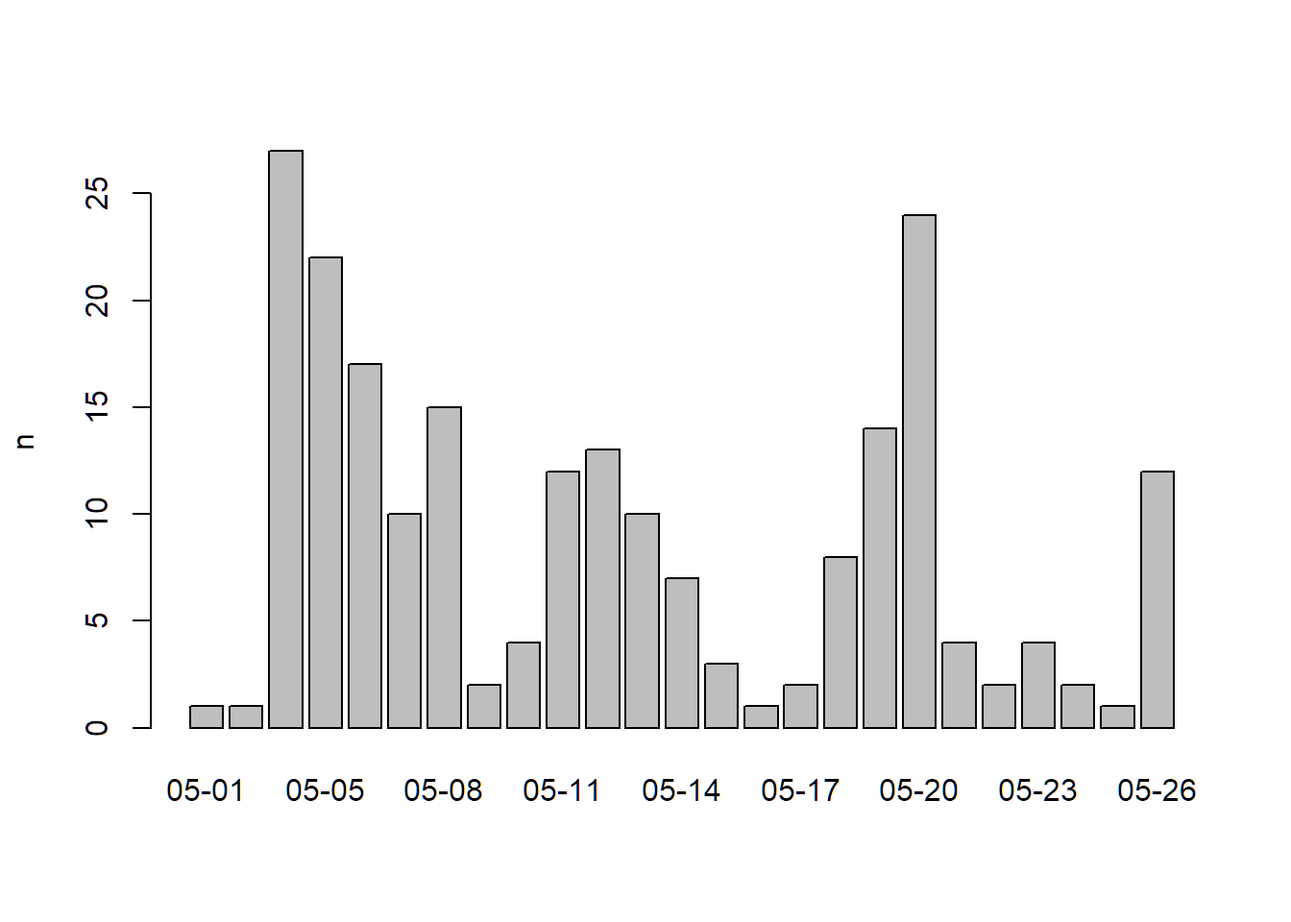
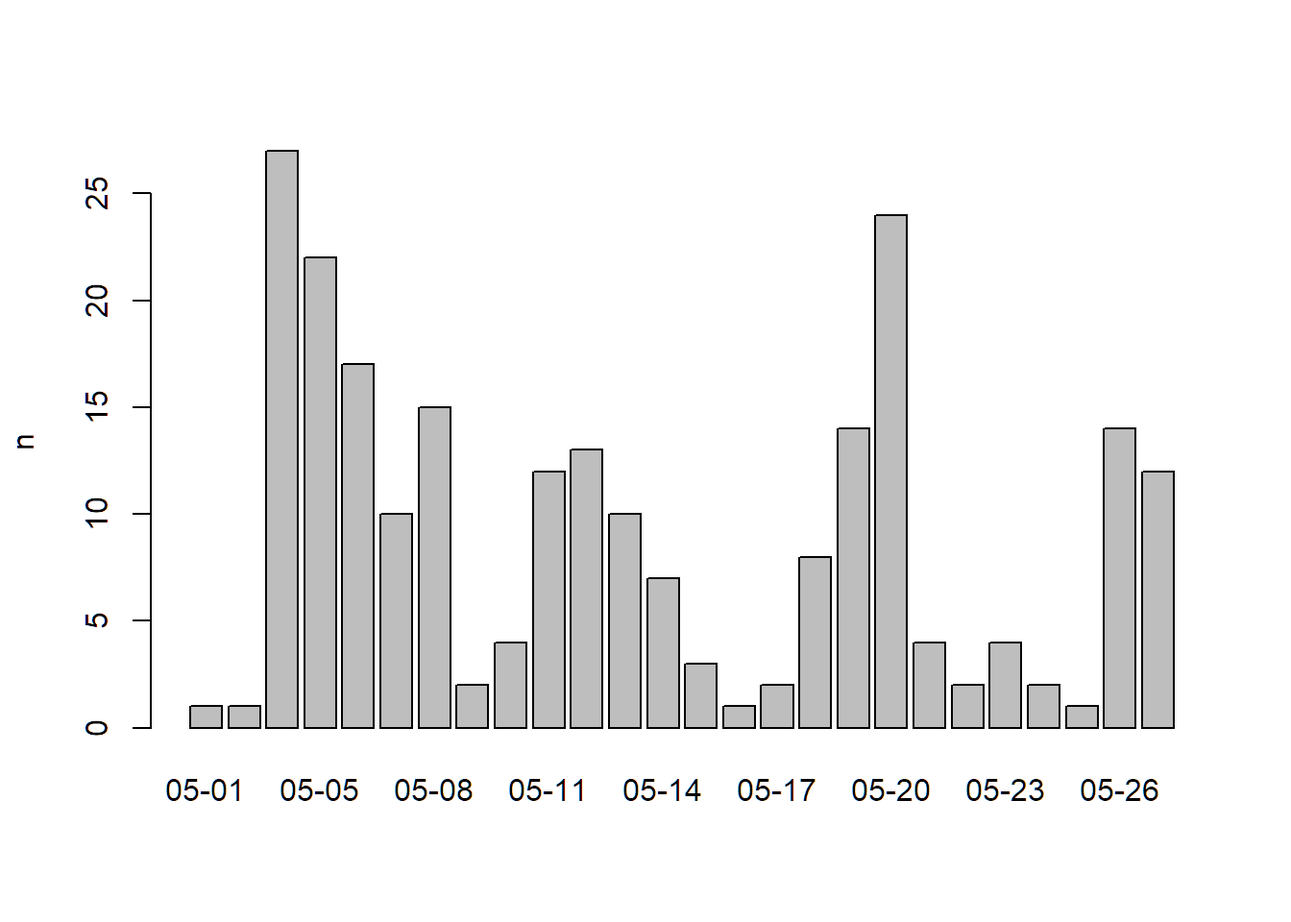
Reg summary update

diff --git a/docs/reg_summary.html b/docs/reg_summary.html
@@ -268,7 +268,7 @@ div.tocify {
 
 
 <h1 class="title toc-ignore">DroneCamp 2020 Registrations</h1>
-<h4 class="date">as of Tuesday May 26, 20:19</h4>
+<h4 class="date">as of Wednesday May 27, 15:06</h4>
 
 </div>
 
@@ -299,15 +299,15 @@ h4 {
 <h1>Summary</h1>
 <p><p class="total">
 Total: 
-218
+232
 </p><p>
 <em>estimate based on unique email addresses</em>
 </p></p>
 </div>
 <div id="map" class="section level1">
 <h1>Map</h1>
-<div id="htmlwidget-bb96046818318e6d7fb2" style="width:672px;height:480px;" class="leaflet html-widget"></div>
-<script type="application/json" data-for="htmlwidget-bb96046818318e6d7fb2">{"x":{"options":{"crs":{"crsClass":"L.CRS.EPSG3857","code":null,"proj4def":null,"projectedBounds":null,"options":{}}},"calls":[{"method":"addTiles","args":["//{s}.tile.openstreetmap.org/{z}/{x}/{y}.png",null,null,{"minZoom":0,"maxZoom":18,"tileSize":256,"subdomains":"abc","errorTileUrl":"","tms":false,"noWrap":false,"zoomOffset":0,"zoomReverse":false,"opacity":1,"zIndex":1,"detectRetina":false,"attribution":"&copy; <a href=\"http://openstreetmap.org\">OpenStreetMap<\/a> contributors, <a href=\"http://creativecommons.org/licenses/by-sa/2.0/\">CC-BY-SA<\/a>"}]},{"method":"addCircleMarkers","args":[[37.4635519,36.678155,44.6111643,44.60509,38.5449065,32.7764749,36.825582,34.048411,38.5449065,36.9741171,38.556576,40.8020712,35.5005139,36.9707,38.5449065,37.7749295,40.659753,38.457611,37.523901,32.700018,36.6002378,34.117047,37.9829496,40.867469,36.681161,34.4208305,38.549256,41.081726,38.440111,32.704499,33.794028,40.039784,40.160138,39.5807452,52.9817372,49.2488091,43.6150186,39.072831,47.6248791,51.0447331,40.5852602,34.063209,37.5629917,36.678155,36.447533,35.5496939,40.5852602,34.0966764,36.6844029,49.2827291,34.268736,39.830936,36.722616,40.4233142,40.5852602,39.720955,36.9741171,36.6844029,43.0085587,37.3021632,40.867469,37.8715226,38.480494,33.640302,36.148444,49.2488091,38.672127,32.715738,39.7392358,38.3293416,38.3293416,38.3293416,40.0149856,40.4233142,36.812905,33.571185,34.0522342,32.715738,32.557684,38.939926,38.939926,47.899217,45.497856,41.971044,34.432896,36.3302284,36.358928,36.678155,39.9242266,38.7296252,43.828266,32.8328112,49.2710518,39.202725,34.110009,37.4529598,45.5051064,39.767536,49.1344187,39.114138,34.1175895,39.049377,39.049377,47.899217,32.800259,32.853471,40.399281,32.8111612,50.9341773,36.6844029,37.342056,33.016928,39.15973,39.720955,33.869114,33.016928,32.715738,36.678155,38.546306,39.7778,45.56544,45.482341,51.1097378,38.528103,38.528103,37.8715226,38.546306,26.067966,39.735745,36.691036,51.0869594,38.359772,36.865587,32.918035,40.399281,39.403178,37.010322,38.549256,36.680194,36.665879,37.8715226,37.232027,36.61365,38.549256,33.571185,36.619065,32.8328112,43.0730517,36.665879,43.165134,60.766603,37.057708,32.6926512,33.835465,38.480494,41.5264977,42.02933,49.1682866,43.06956,49.2609021,33.785166,38.628371,37.954122,49.2684344,40.963482,38.697238,39.957324,49.261045,34.406519,34.443746,44.6564909,44.6564909,44.6564909,36.9880503,44.6564909,36.9880503,44.6564909,44.6564909,44.6564909,44.6564909,44.6564909,39.645276,36.678155,38.5382322,39.395387,33.016928,34.4139629,38.5382322,40.044385,36.979333,38.5382322,38.580255,37.868575,37.870151,38.5449065,43.318318,43.074296,39.654181,39.654181,43.7022451,37.000199,37.342056,39.13255,30.0770172,27.455543,35.992691,37.186872,34.198738,37.342056,37.3021632,33.823316,36.825582,33.741651,45.589689],[-122.4285862,-121.79724,-69.3345032,-69.33022,-121.7405167,-79.9310512,-119.76358,-118.34015,-121.7405167,-122.0307963,-121.49285,-124.1636729,-119.2717761,-121.99086,-121.7405167,-122.4194155,-124.22153,-122.69317,-120.8516,-114.52671,-121.8946761,-117.77097,-120.3821724,-124.07519,-121.61538,-119.6981901,-121.73655,-124.13112,-122.74563,-114.64644,-118.07218,-105.27938,-105.01772,-104.8771726,-122.4949058,-122.9805104,-116.2023137,-108.55,-122.5210007,-114.0718831,-105.084423,-118.43643,-122.3255254,-121.79724,-121.68611,-120.7060049,-105.084423,-117.7197785,-121.802173,-123.1207375,-119.2249,-105.03736,-120.10081,-104.7091322,-105.084423,-121.81888,-122.0307963,-121.802173,-81.2634983,-120.4829677,-124.07519,-122.273042,-122.74976,-117.769442,-95.90841,-122.9805104,-121.15783,-117.1610838,-104.990251,-122.7096666,-122.7096666,-122.7096666,-105.2705456,-104.7091322,-121.78299,-117.15362,-118.2436849,-117.1610838,-94.74353,-119.9771868,-119.9771868,-97.05896,-122.76988,-87.75869,-119.837072,-119.2920585,-119.24027,-121.79724,-83.8088171,-120.798546,-84.74219,-117.2712717,-123.1588119,-121.02076,-117.71973,-122.1817252,-122.6750261,-105.01973,-123.1163498,-121.6196,-118.188329,-76.49892,-76.49892,-97.05896,-115.35369,-115.58942,-104.70172,-115.3802643,-114.106128,-121.802173,-120.50154,-116.846046,-121.53735,-121.81888,-117.92985,-116.846046,-117.1610838,-121.79724,-121.68682,-89.67982,-122.64635,-122.60007,-114.1517792,-76.98063,-76.98063,-122.273042,-121.68682,-80.22016,-105.19337,-119.83321,-114.1294249,-120.75324,-119.75917,-117.08438,-104.70172,-119.7606,-121.98523,-121.73655,-121.7822278,-121.65497,-122.273042,-80.42127,-119.52873,-121.73655,-117.15362,-121.92102,-117.2712717,-89.4012302,-121.65497,-76.33901,-161.88006,-122.05967,-114.6276916,-117.87362,-122.74976,-70.6730857,-93.60966,-122.9101347,-89.423861,-123.1341072,-117.93406,-121.32702,-122.02506,-123.2611098,-124.07286,-121.80944,-120.98366,-123.2487939,-118.56214,-119.94215,-63.6021832,-63.6021832,-63.6021832,-122.0582093,-63.6021832,-122.0582093,-63.6021832,-63.6021832,-63.6021832,-63.6021832,-63.6021832,-79.962669,-121.79724,-121.7617125,-119.72735,-116.846046,-119.848947,-121.7617125,-105.21928,-121.8944,-121.7617125,-121.49125,-122.25855,-122.2594606,-121.7405167,-89.74928,-89.40774,-79.9594886,-79.9594886,-72.2895526,-122.06026,-120.50154,-121.0981,31.285107,-82.63372,-84.27044,-120.650351,-86.59814,-120.50154,-120.4829677,-118.11329,-119.76358,-117.82127,-122.73875],10,null,null,{"interactive":true,"className":"","stroke":true,"color":"#03F","weight":5,"opacity":0.5,"fill":true,"fillColor":"#03F","fillOpacity":0.2},1,null,["CE Advisor (Urban Forestry)<br/>UCCE San Mateo/San Francisco","Human Resources<br/>MPC Student","Professor<br/>Unity College","Professor of Geoscience<br/>Unity College","Executive Director, Sustainable Wine & Food Processing Center<br/>University of California Davis","Graduate Student<br/>College of Charleston","Turfgrass and Environmental Horticulture Advisor<br/>University of California Cooperative Extension","Postdoctoral Scholar<br/>UCLA","Associate Director River Restoration<br/>American Rivers","Senior Restoration Ecologist<br/>River Partners","Graduate Student<br/>UC Davis","Associate Environmental Planner<br/>Caltrans","Consultant/Remote Sensing Engineer<br/>Wonderful","Masters Candidate<br/>University of California Santa Cruz","Postdoc<br/>UC Davis","GIS Manager/Drone Pilot<br/>SFEI","Assistant Professor<br/>College of the Redwoods","Sr. GIS Analyst / Drone Ops<br/>Jackson Family Wines","Assistant Professor of Geography<br/>CSU, Stanislaus","Media Specialist and Drone Operator<br/>University of Arizona Yuma Center of Excellence for Desert Agriculture","GIS Technician<br/>CSU Monterey Bay","Statewide Survey and Trapping Coordinator<br/>UC IPM","Professor<br/>Columbia College","Adjunct Lecturer<br/>Humboldt State University","Student Researcher<br/>California State University Monterey Bay","Master Student<br/>UCSB","Graduate PhD student<br/>University of California Davis","Student<br/>College of the redwoods","Department Chair<br/>Santa Rosa Junior College","Professor of Geosciences/UAS<br/>Arizona Western College","Environmental Scientist<br/>California Department of Fish and Wildlife, Office of Spill Prevention and Response","GIS Ana.yst<br/>AGS Inc.","Unemployed<br/>Unemployed","GIS Specialist<br/>ICON Engineering","Student / BC Ministry of Forests Auxiliary<br/>British Columbia Institute of Technology","Student<br/>British Columbia Institute of Technology","Assistant Professor, Human Environment Systems<br/>Boise State University","GIS Technician<br/>City of Grand Junction","Sr Wildlife Biologist/Project Manager<br/>ManTech International","Geographer<br/>none","Owner<br/>Private Business","Undergraduate<br/>University of California, Berkeley","Student<br/>College of San Mateo","Graduate student<br/>UC Santa Cruz","Director, Hastings Reserve<br/>UC Berkeley","Program Manager<br/>Upper Salinas Las Tablas Resource Conservation District","Environmental Scientist<br/>Twin Fish Enterprises LLC","Student<br/>Claremont Graduate University","Graduate Student<br/>California State University Monterey Bay","Student<br/>BCIT","Lab/Field Assistant<br/>UCCE Ventura County","Sr Geographic Analyst<br/>HERE Technologies","Field Agronomist<br/>Bayer","Professor & Chair<br/>University of Northern Colorado","Student Researcher<br/>Colorado State University","Instructor<br/>Butte College","Master Student<br/>University of California Santa Cruz","IST II<br/>CSU. Monterey Bay","Teaching assistant<br/>Western University","Student<br/>UC Merced","It<br/>Humboldt State U","Field Research Safety CoE/Health & Safety Advisor<br/>UC Berkeley","Dairy Advisor<br/>University of California Cooperative Extension","Principal IT Auditor<br/>UC Irvine","Graduate student<br/>University of Tulsa","GIS Student<br/>BCIT","Postdoc<br/>UCDavis","Videographer<br/>SDSC","Student<br/>University of Denver","Scientific Programs Manager<br/>Marin/Sonoma Mosquito and Vector Control District","Environmental Biologist<br/>Marin/Sonoma Mosquito and Vector Control District","Assistant Manager<br/>Marin/Sonoma Mosquito and Vector Control District","Field Engineer<br/>UNAVCO","Emeritus Professor<br/>University of Northern Colorado","Digital Media Assistant<br/>Elkhorn Slough Foundation","Community Edication Specialist<br/>UCCE","Graduate Student<br/>California State University, Los Angeles","Teaching Assistant<br/>UCSD","Student<br/>Letourneau University","Adjunct Instructor<br/>LTCC","Citizen Science Program Coordinator<br/>League to Save Lake Tahoe","Owner<br/>UAS for Good LLC","Instructor<br/>Portland Community College","Instructor<br/>Harper College","R & D Engineer<br/>University of California Santa Barbara","Environmental Scientist<br/>CAL FIRE","Forerstry Assistant II<br/>CAL FIRE","Student<br/>CSU Monterey Bay","Associate Professor/Geospatial Technology Coordinator<br/>Clark State Community College","GIS Manager<br/>County of El Dorado","Instructor<br/>Mid Michigan College","R&D Engineer<br/>UC San Diego/Scripps Oceanography","Biologist<br/>Hemmera","Middle School Science Teacher<br/>Nevada City School of the Arts","Digital Scholarship Librarian<br/>Claremont Colleges","Postdoctoral scholar<br/>UC Berkeley","student<br/>PSU","Retired<br/>None","Student in GIS<br/>BCIT (British Columbia Student of Technology)","Advisor<br/>UCCE Sutter-Yuba","GIS Analyst / Geophysicist / Geologist<br/>Rio Hondo College","Instructional Specialist<br/>Anne Arundel Community College","Professor<br/>Anne Arundel Community College","Assistant Professor of Aviation<br/>University of North Dakota","CENTER SUPERINTENDENT<br/>University of California  DREC","SRA<br/>University of California  DREC","Assistant Professor<br/>University of Northern Colorado","lab assistant<br/>UC Cooperative Extension  in Imperial","Student<br/>University of Calgary","Student<br/>CSUMB","Coordinator and Professor of Computer Science<br/>Merced College","Ph.D. student<br/>UC San Diego","Farm hand<br/>CSU Chico, student","Environmental Land Steward II<br/>Chico State Enterprise","President<br/>Roof Rx Inc","PhD student<br/>UCSD","PhD Student<br/>University of California, San Diego","Professor and Farm Incubator<br/>CSUMB","Program and Event Specialist<br/>UC ANR","Student<br/>University of Kentucky","STEAM coordinator<br/>Portland Community College","STEAM Coordinator<br/>Portland. Community College","student<br/>Univeristy of Calgary","Program Assistant - Transportation<br/>College of Southern Marland","Director I, Transportation Dept<br/>College of Southern Maryland","Graduate Student<br/>University of California, Berkeley","Sr. Systems Administrator<br/>University of California - Agriculture and Natural Resources","Geomatics Specialist<br/>UF","Multimedia Section Lead<br/>NREL","Research Associate<br/>Bayer Crop Science","Student<br/>University of Calgary","Farm Advisor<br/>UCCE Central Sierra","Asst. Specialist<br/>UC ANR","Student - Intern for Graduate Student Studying Habitat Restoration and GIS<br/>UC Davis","Associate Professor<br/>University of Northern Colorado","GIS Analyst<br/>Michael Baker International","student<br/>West Valley College","PhD student<br/>Uc Davis","Assistant Professor<br/>California State University Monterey Bay","IPM & Entomology Advisor<br/>University of California Cooperative Extension","Ph.D. Candidate<br/>University of California, Berkeley","Geospatial Ext. Specialist<br/>Virginia Tech","Assistant CE Specialist<br/>ANR","Graduate Student Researcher<br/>UC Davis","GIS Consultant<br/>GEOinovo Solutions Inc","Graduate Student Assistant<br/>CSUMB","Student<br/>University of California San Diego","Postdoctoral Fellow<br/>The University of Wisconsin","Senior Lecturer/Media Production Specialist<br/>Cinematic Arts & Technology, CSU Monterey Bay","Student<br/>Syracuse University","Biologist/pilot<br/>US Fish and Wildlife Service","Postdoctoral Researcher<br/>UC Santa Cruz","Postdoctoral Research Associate<br/>University of Arizona","Student<br/>Rio Hondo College","Staff Surveyor<br/>Cinquini & Passarino Inc.","Research Scientist<br/>Marine Biological Laboratory","Graduate Research Assistant<br/>Iowa State University","Stuent<br/>British Columbia Institute of Technology","Undergraduate Researcher<br/>University of Wisconsin - Madison","Grad student<br/>UBC","Director, Drone Education Programs<br/>Vital Link OC","Professor, Department of Mechanical Engineering; Senior Bridge Engineer, Caltrans<br/>CSU Maritime Academy/Caltrans","IT Project Manager<br/>CSU Monterey Bay","PhD Student<br/>University of British Columbia","Biologist<br/>Caltrans","Project Designer<br/>Continental Development Consultants","Land Steward- Conservation Easement Coordinator<br/>Feather River Land Trust","PhD student<br/>The University of British Columbia","Commercial Estimator<br/>Rio Hondo College","PhD student, laboratory manager<br/>UCSB","Assistant Professor<br/>Dalhousie University","MSc student<br/>Dalhousie University","MSc student<br/>Dalhousie University","Researcher<br/>UC Santa Cruz","MSc student<br/>Dalhousie University","Summer Intern (Doris Duke Scholar)<br/>UC Santa Cruz","MSc student<br/>Dalhousie University","MSc student<br/>Dalhousie University","PhD student<br/>Dalhousie University","MSc student<br/>Dalhousie University","MSc student<br/>Dalhousie University","Assistant Professor<br/>West Virginia University","Field Technician<br/>CSUMB","PhD Candidate<br/>UC Davis","GIS Analyst<br/>NV Energy","PhD Student<br/>University of California, San Diego","Reserve Director, Carpinteria Salt Marsh Resereve<br/>University of California, Santa Barbara/UC NRS","scientist<br/>UC Davis","Field Engineer<br/>UNAVCO","Student<br/>CSUMB","Geospatial Specialist (JS)<br/>UC Davis","Civil Engineer<br/>CA DWR","PhD Student<br/>UC Berkeley","PhD Candidate<br/>UC Berkeley","Student<br/>University of California Davis","Ecologist<br/>US Dairy Forage Research Center","Biological Research Technician<br/>US Dairy Forage Research Center","Graduate Student<br/>West Virginia University","Graduate Student<br/>West Virginia University","Dartmouth College<br/>Dartmouth College","PhD Student<br/>University of California Santa Cruz","N/A<br/>UC Merced","Archaeology<br/>California State Parks","Urban Planner<br/>Ain Shams University","Utilities Mapping Technician II<br/>Manatee County Government","AVIATION MANAGER<br/>DOE-CSC-OAK RIDGE","Professor<br/>University of California Merced","Department Chair, CIS<br/>Wallace State Community College - Hanceville, AL","ME143 TA<br/>UC Merced","ME143 TA<br/>UC Merced","GIS Specialist<br/>Project Navigator","Senior Environmental Scientist<br/>CA Department of Fish and Wildlife","Design<br/>Project Navigator, Ltd.","Dean<br/>Portland Community College"],null,null,{"interactive":false,"permanent":false,"direction":"auto","opacity":1,"offset":[0,0],"textsize":"10px","textOnly":false,"className":"","sticky":true},null]}],"limits":{"lat":[26.067966,60.766603],"lng":[-161.88006,31.285107]}},"evals":[],"jsHooks":[]}</script>
+<div id="htmlwidget-e0c33915977459791e86" style="width:672px;height:480px;" class="leaflet html-widget"></div>
+<script type="application/json" data-for="htmlwidget-e0c33915977459791e86">{"x":{"options":{"crs":{"crsClass":"L.CRS.EPSG3857","code":null,"proj4def":null,"projectedBounds":null,"options":{}}},"calls":[{"method":"addTiles","args":["//{s}.tile.openstreetmap.org/{z}/{x}/{y}.png",null,null,{"minZoom":0,"maxZoom":18,"tileSize":256,"subdomains":"abc","errorTileUrl":"","tms":false,"noWrap":false,"zoomOffset":0,"zoomReverse":false,"opacity":1,"zIndex":1,"detectRetina":false,"attribution":"&copy; <a href=\"http://openstreetmap.org\">OpenStreetMap<\/a> contributors, <a href=\"http://creativecommons.org/licenses/by-sa/2.0/\">CC-BY-SA<\/a>"}]},{"method":"addCircleMarkers","args":[[37.4635519,36.678155,44.6111643,44.60509,38.5449065,32.7764749,36.825582,34.048411,38.5449065,36.9741171,38.556576,40.8020712,35.5005139,36.9707,38.5449065,37.7749295,40.659753,38.457611,37.523901,32.700018,36.6002378,34.117047,37.9829496,40.867469,36.681161,34.4208305,38.549256,41.081726,38.440111,32.704499,33.794028,40.039784,40.160138,39.5807452,52.9817372,49.2488091,43.6150186,39.072831,47.6248791,51.0447331,40.5852602,34.063209,37.5629917,36.678155,36.447533,35.5496939,40.5852602,34.0966764,36.6844029,49.2827291,34.268736,39.830936,36.722616,40.4233142,40.5852602,39.720955,36.9741171,36.6844029,43.0085587,37.3021632,40.867469,37.8715226,38.480494,33.640302,36.148444,49.2488091,38.672127,32.715738,39.7392358,38.3293416,38.3293416,38.3293416,40.0149856,40.4233142,36.812905,33.571185,34.0522342,32.715738,32.557684,38.939926,38.939926,47.899217,45.497856,41.971044,34.432896,36.3302284,36.358928,36.678155,39.9242266,38.7296252,43.828266,32.8328112,49.2710518,39.202725,34.110009,37.4529598,45.5051064,39.767536,49.1344187,39.114138,34.1175895,39.049377,39.049377,47.899217,32.800259,32.853471,40.399281,32.8111612,50.9341773,36.6844029,37.342056,33.016928,39.15973,39.720955,33.869114,33.016928,32.715738,36.678155,38.546306,39.7778,45.56544,45.482341,51.1097378,38.528103,38.528103,37.8715226,38.546306,26.067966,39.735745,36.691036,51.0869594,38.359772,36.865587,32.918035,40.399281,39.403178,37.010322,38.549256,36.680194,36.665879,37.8715226,37.232027,36.61365,38.549256,33.571185,36.619065,32.8328112,43.0730517,36.665879,43.165134,60.766603,37.057708,32.6926512,33.835465,38.480494,41.5264977,42.02933,49.1682866,43.06956,49.2609021,33.785166,38.628371,37.954122,49.2684344,40.963482,38.697238,39.957324,49.261045,34.406519,34.443746,44.6564909,44.6564909,44.6564909,36.9880503,44.6564909,36.9880503,44.6564909,44.6564909,44.6564909,44.6564909,44.6564909,39.645276,36.678155,38.5382322,39.395387,33.016928,34.4139629,38.5382322,40.044385,36.979333,38.5382322,38.580255,37.868575,37.870151,38.5449065,43.318318,43.074296,39.654181,39.654181,43.7022451,37.000199,37.342056,39.13255,30.0770172,27.455543,35.992691,37.186872,34.198738,37.342056,37.3021632,33.823316,36.825582,33.741651,45.589689,37.865026,45.589689,38.571661,38.07735,34.066626,37.186872,37.186872,37.186872,37.186872,37.186872,37.186872,37.186872,37.186872],[-122.4285862,-121.79724,-69.3345032,-69.33022,-121.7405167,-79.9310512,-119.76358,-118.34015,-121.7405167,-122.0307963,-121.49285,-124.1636729,-119.2717761,-121.99086,-121.7405167,-122.4194155,-124.22153,-122.69317,-120.8516,-114.52671,-121.8946761,-117.77097,-120.3821724,-124.07519,-121.61538,-119.6981901,-121.73655,-124.13112,-122.74563,-114.64644,-118.07218,-105.27938,-105.01772,-104.8771726,-122.4949058,-122.9805104,-116.2023137,-108.55,-122.5210007,-114.0718831,-105.084423,-118.43643,-122.3255254,-121.79724,-121.68611,-120.7060049,-105.084423,-117.7197785,-121.802173,-123.1207375,-119.2249,-105.03736,-120.10081,-104.7091322,-105.084423,-121.81888,-122.0307963,-121.802173,-81.2634983,-120.4829677,-124.07519,-122.273042,-122.74976,-117.769442,-95.90841,-122.9805104,-121.15783,-117.1610838,-104.990251,-122.7096666,-122.7096666,-122.7096666,-105.2705456,-104.7091322,-121.78299,-117.15362,-118.2436849,-117.1610838,-94.74353,-119.9771868,-119.9771868,-97.05896,-122.76988,-87.75869,-119.837072,-119.2920585,-119.24027,-121.79724,-83.8088171,-120.798546,-84.74219,-117.2712717,-123.1588119,-121.02076,-117.71973,-122.1817252,-122.6750261,-105.01973,-123.1163498,-121.6196,-118.188329,-76.49892,-76.49892,-97.05896,-115.35369,-115.58942,-104.70172,-115.3802643,-114.106128,-121.802173,-120.50154,-116.846046,-121.53735,-121.81888,-117.92985,-116.846046,-117.1610838,-121.79724,-121.68682,-89.67982,-122.64635,-122.60007,-114.1517792,-76.98063,-76.98063,-122.273042,-121.68682,-80.22016,-105.19337,-119.83321,-114.1294249,-120.75324,-119.75917,-117.08438,-104.70172,-119.7606,-121.98523,-121.73655,-121.7822278,-121.65497,-122.273042,-80.42127,-119.52873,-121.73655,-117.15362,-121.92102,-117.2712717,-89.4012302,-121.65497,-76.33901,-161.88006,-122.05967,-114.6276916,-117.87362,-122.74976,-70.6730857,-93.60966,-122.9101347,-89.423861,-123.1341072,-117.93406,-121.32702,-122.02506,-123.2611098,-124.07286,-121.80944,-120.98366,-123.2487939,-118.56214,-119.94215,-63.6021832,-63.6021832,-63.6021832,-122.0582093,-63.6021832,-122.0582093,-63.6021832,-63.6021832,-63.6021832,-63.6021832,-63.6021832,-79.962669,-121.79724,-121.7617125,-119.72735,-116.846046,-119.848947,-121.7617125,-105.21928,-121.8944,-121.7617125,-121.49125,-122.25855,-122.2594606,-121.7405167,-89.74928,-89.40774,-79.9594886,-79.9594886,-72.2895526,-122.06026,-120.50154,-121.0981,31.285107,-82.63372,-84.27044,-120.650351,-86.59814,-120.50154,-120.4829677,-118.11329,-119.76358,-117.82127,-122.73875,-122.2859,-122.73875,-121.46827,-78.42042,-116.55951,-120.650351,-120.650351,-120.650351,-120.650351,-120.650351,-120.650351,-120.650351,-120.650351],10,null,null,{"interactive":true,"className":"","stroke":true,"color":"#03F","weight":5,"opacity":0.5,"fill":true,"fillColor":"#03F","fillOpacity":0.2},1,null,["CE Advisor (Urban Forestry)<br/>UCCE San Mateo/San Francisco","Human Resources<br/>MPC Student","Professor<br/>Unity College","Professor of Geoscience<br/>Unity College","Executive Director, Sustainable Wine & Food Processing Center<br/>University of California Davis","Graduate Student<br/>College of Charleston","Turfgrass and Environmental Horticulture Advisor<br/>University of California Cooperative Extension","Postdoctoral Scholar<br/>UCLA","Associate Director River Restoration<br/>American Rivers","Senior Restoration Ecologist<br/>River Partners","Graduate Student<br/>UC Davis","Associate Environmental Planner<br/>Caltrans","Consultant/Remote Sensing Engineer<br/>Wonderful","Masters Candidate<br/>University of California Santa Cruz","Postdoc<br/>UC Davis","GIS Manager/Drone Pilot<br/>SFEI","Assistant Professor<br/>College of the Redwoods","Sr. GIS Analyst / Drone Ops<br/>Jackson Family Wines","Assistant Professor of Geography<br/>CSU, Stanislaus","Media Specialist and Drone Operator<br/>University of Arizona Yuma Center of Excellence for Desert Agriculture","GIS Technician<br/>CSU Monterey Bay","Statewide Survey and Trapping Coordinator<br/>UC IPM","Professor<br/>Columbia College","Adjunct Lecturer<br/>Humboldt State University","Student Researcher<br/>California State University Monterey Bay","Master Student<br/>UCSB","Graduate PhD student<br/>University of California Davis","Student<br/>College of the redwoods","Department Chair<br/>Santa Rosa Junior College","Professor of Geosciences/UAS<br/>Arizona Western College","Environmental Scientist<br/>California Department of Fish and Wildlife, Office of Spill Prevention and Response","GIS Ana.yst<br/>AGS Inc.","Unemployed<br/>Unemployed","GIS Specialist<br/>ICON Engineering","Student / BC Ministry of Forests Auxiliary<br/>British Columbia Institute of Technology","Student<br/>British Columbia Institute of Technology","Assistant Professor, Human Environment Systems<br/>Boise State University","GIS Technician<br/>City of Grand Junction","Sr Wildlife Biologist/Project Manager<br/>ManTech International","Geographer<br/>none","Owner<br/>Private Business","Undergraduate<br/>University of California, Berkeley","Student<br/>College of San Mateo","Graduate student<br/>UC Santa Cruz","Director, Hastings Reserve<br/>UC Berkeley","Program Manager<br/>Upper Salinas Las Tablas Resource Conservation District","Environmental Scientist<br/>Twin Fish Enterprises LLC","Student<br/>Claremont Graduate University","Graduate Student<br/>California State University Monterey Bay","Student<br/>BCIT","Lab/Field Assistant<br/>UCCE Ventura County","Sr Geographic Analyst<br/>HERE Technologies","Field Agronomist<br/>Bayer","Professor & Chair<br/>University of Northern Colorado","Student Researcher<br/>Colorado State University","Instructor<br/>Butte College","Master Student<br/>University of California Santa Cruz","IST II<br/>CSU. Monterey Bay","Teaching assistant<br/>Western University","Student<br/>UC Merced","It<br/>Humboldt State U","Field Research Safety CoE/Health & Safety Advisor<br/>UC Berkeley","Dairy Advisor<br/>University of California Cooperative Extension","Principal IT Auditor<br/>UC Irvine","Graduate student<br/>University of Tulsa","GIS Student<br/>BCIT","Postdoc<br/>UCDavis","Videographer<br/>SDSC","Student<br/>University of Denver","Scientific Programs Manager<br/>Marin/Sonoma Mosquito and Vector Control District","Environmental Biologist<br/>Marin/Sonoma Mosquito and Vector Control District","Assistant Manager<br/>Marin/Sonoma Mosquito and Vector Control District","Field Engineer<br/>UNAVCO","Emeritus Professor<br/>University of Northern Colorado","Digital Media Assistant<br/>Elkhorn Slough Foundation","Community Edication Specialist<br/>UCCE","Graduate Student<br/>California State University, Los Angeles","Teaching Assistant<br/>UCSD","Student<br/>Letourneau University","Adjunct Instructor<br/>LTCC","Citizen Science Program Coordinator<br/>League to Save Lake Tahoe","Owner<br/>UAS for Good LLC","Instructor<br/>Portland Community College","Instructor<br/>Harper College","R & D Engineer<br/>University of California Santa Barbara","Environmental Scientist<br/>CAL FIRE","Forerstry Assistant II<br/>CAL FIRE","Student<br/>CSU Monterey Bay","Associate Professor/Geospatial Technology Coordinator<br/>Clark State Community College","GIS Manager<br/>County of El Dorado","Instructor<br/>Mid Michigan College","R&D Engineer<br/>UC San Diego/Scripps Oceanography","Biologist<br/>Hemmera","Middle School Science Teacher<br/>Nevada City School of the Arts","Digital Scholarship Librarian<br/>Claremont Colleges","Postdoctoral scholar<br/>UC Berkeley","student<br/>PSU","Retired<br/>None","Student in GIS<br/>BCIT (British Columbia Student of Technology)","Advisor<br/>UCCE Sutter-Yuba","GIS Analyst / Geophysicist / Geologist<br/>Rio Hondo College","Instructional Specialist<br/>Anne Arundel Community College","Professor<br/>Anne Arundel Community College","Assistant Professor of Aviation<br/>University of North Dakota","CENTER SUPERINTENDENT<br/>University of California  DREC","SRA<br/>University of California  DREC","Assistant Professor<br/>University of Northern Colorado","lab assistant<br/>UC Cooperative Extension  in Imperial","Student<br/>University of Calgary","Student<br/>CSUMB","Coordinator and Professor of Computer Science<br/>Merced College","Ph.D. student<br/>UC San Diego","Farm hand<br/>CSU Chico, student","Environmental Land Steward II<br/>Chico State Enterprise","President<br/>Roof Rx Inc","PhD student<br/>UCSD","PhD Student<br/>University of California, San Diego","Professor and Farm Incubator<br/>CSUMB","Program and Event Specialist<br/>UC ANR","Student<br/>University of Kentucky","STEAM coordinator<br/>Portland Community College","STEAM Coordinator<br/>Portland. Community College","student<br/>Univeristy of Calgary","Program Assistant - Transportation<br/>College of Southern Marland","Director I, Transportation Dept<br/>College of Southern Maryland","Graduate Student<br/>University of California, Berkeley","Sr. Systems Administrator<br/>University of California - Agriculture and Natural Resources","Geomatics Specialist<br/>UF","Multimedia Section Lead<br/>NREL","Research Associate<br/>Bayer Crop Science","Student<br/>University of Calgary","Farm Advisor<br/>UCCE Central Sierra","Asst. Specialist<br/>UC ANR","Student - Intern for Graduate Student Studying Habitat Restoration and GIS<br/>UC Davis","Associate Professor<br/>University of Northern Colorado","GIS Analyst<br/>Michael Baker International","student<br/>West Valley College","PhD student<br/>Uc Davis","Assistant Professor<br/>California State University Monterey Bay","IPM & Entomology Advisor<br/>University of California Cooperative Extension","Ph.D. Candidate<br/>University of California, Berkeley","Geospatial Ext. Specialist<br/>Virginia Tech","Assistant CE Specialist<br/>ANR","Graduate Student Researcher<br/>UC Davis","GIS Consultant<br/>GEOinovo Solutions Inc","Graduate Student Assistant<br/>CSUMB","Student<br/>University of California San Diego","Postdoctoral Fellow<br/>The University of Wisconsin","Senior Lecturer/Media Production Specialist<br/>Cinematic Arts & Technology, CSU Monterey Bay","Student<br/>Syracuse University","Biologist/pilot<br/>US Fish and Wildlife Service","Postdoctoral Researcher<br/>UC Santa Cruz","Postdoctoral Research Associate<br/>University of Arizona","Student<br/>Rio Hondo College","Staff Surveyor<br/>Cinquini & Passarino Inc.","Research Scientist<br/>Marine Biological Laboratory","Graduate Research Assistant<br/>Iowa State University","Stuent<br/>British Columbia Institute of Technology","Undergraduate Researcher<br/>University of Wisconsin - Madison","Grad student<br/>UBC","Director, Drone Education Programs<br/>Vital Link OC","Professor, Department of Mechanical Engineering; Senior Bridge Engineer, Caltrans<br/>CSU Maritime Academy/Caltrans","IT Project Manager<br/>CSU Monterey Bay","PhD Student<br/>University of British Columbia","Biologist<br/>Caltrans","Project Designer<br/>Continental Development Consultants","Land Steward- Conservation Easement Coordinator<br/>Feather River Land Trust","PhD student<br/>The University of British Columbia","Commercial Estimator<br/>Rio Hondo College","PhD student, laboratory manager<br/>UCSB","Assistant Professor<br/>Dalhousie University","MSc student<br/>Dalhousie University","MSc student<br/>Dalhousie University","Researcher<br/>UC Santa Cruz","MSc student<br/>Dalhousie University","Summer Intern (Doris Duke Scholar)<br/>UC Santa Cruz","MSc student<br/>Dalhousie University","MSc student<br/>Dalhousie University","PhD student<br/>Dalhousie University","MSc student<br/>Dalhousie University","MSc student<br/>Dalhousie University","Assistant Professor<br/>West Virginia University","Field Technician<br/>CSUMB","PhD Candidate<br/>UC Davis","GIS Analyst<br/>NV Energy","PhD Student<br/>University of California, San Diego","Reserve Director, Carpinteria Salt Marsh Resereve<br/>University of California, Santa Barbara/UC NRS","scientist<br/>UC Davis","Field Engineer<br/>UNAVCO","Student<br/>CSUMB","Geospatial Specialist (JS)<br/>UC Davis","Civil Engineer<br/>CA DWR","PhD Student<br/>UC Berkeley","PhD Candidate<br/>UC Berkeley","Student<br/>University of California Davis","Ecologist<br/>US Dairy Forage Research Center","Biological Research Technician<br/>US Dairy Forage Research Center","Graduate Student<br/>West Virginia University","Graduate Student<br/>West Virginia University","Dartmouth College<br/>Dartmouth College","PhD Student<br/>University of California Santa Cruz","N/A<br/>UC Merced","Archaeology<br/>California State Parks","Urban Planner<br/>Ain Shams University","Utilities Mapping Technician II<br/>Manatee County Government","AVIATION MANAGER<br/>DOE-CSC-OAK RIDGE","Professor<br/>University of California Merced","Department Chair, CIS<br/>Wallace State Community College - Hanceville, AL","ME143 TA<br/>UC Merced","ME143 TA<br/>UC Merced","GIS Specialist<br/>Project Navigator","Senior Environmental Scientist<br/>CA Department of Fish and Wildlife","Design<br/>Project Navigator, Ltd.","Dean<br/>Portland Community College","Graduate Student<br/>University of California, Berkeley","Research Data Analyst<br/>UC Davis School of Veterinary Medicine","Adjunct Faculty Instructor<br/>American River College","Stewardship Technician<br/>The Nature Conservancy","ME-143 UAS class member<br/>University of California, Merced","ME 143 UAS class member<br/>University of California Merced & UCM AIAA","ME-143 UAS class member<br/>UC Merced","ME-143 UAS Class Member<br/>UC Merced","ME 143 UAS class member<br/>uc merced","ME-143 UAS class member<br/>University of California, Merced","ME-143 UAS class member<br/>UC Merced","ME 143 UAS class member<br/>UC Merced","Apple Technical Support Advisor<br/>ME 143 class member"],null,null,{"interactive":false,"permanent":false,"direction":"auto","opacity":1,"offset":[0,0],"textsize":"10px","textOnly":false,"className":"","sticky":true},null]}],"limits":{"lat":[26.067966,60.766603],"lng":[-161.88006,31.285107]}},"evals":[],"jsHooks":[]}</script>
 </div>
 <div id="by-top-level-domain" class="section level1">
 <h1>By Top Level Domain</h1>
@@ -331,10 +331,10 @@ percent
 edu
 </td>
 <td style="text-align:right;">
-135
+148
 </td>
 <td style="text-align:left;">
-61.9%
+63.8%
 </td>
 </tr>
 <tr>
@@ -345,7 +345,7 @@ com
 36
 </td>
 <td style="text-align:left;">
-16.5%
+15.5%
 </td>
 </tr>
 <tr>
@@ -356,7 +356,7 @@ ca
 18
 </td>
 <td style="text-align:left;">
-8.3%
+7.8%
 </td>
 </tr>
 <tr>
@@ -367,7 +367,7 @@ gov
 13
 </td>
 <td style="text-align:left;">
-6%
+5.6%
 </td>
 </tr>
 <tr>
@@ -375,10 +375,10 @@ gov
 org
 </td>
 <td style="text-align:right;">
-11
+12
 </td>
 <td style="text-align:left;">
-5%
+5.2%
 </td>
 </tr>
 <tr>
@@ -400,7 +400,7 @@ eg
 1
 </td>
 <td style="text-align:left;">
-0.5%
+0.4%
 </td>
 </tr>
 <tr>
@@ -411,7 +411,7 @@ GOV
 1
 </td>
 <td style="text-align:left;">
-0.5%
+0.4%
 </td>
 </tr>
 <tr>
@@ -422,7 +422,7 @@ us
 1
 </td>
 <td style="text-align:left;">
-0.5%
+0.4%
 </td>
 </tr>
 </tbody>
@@ -433,7 +433,7 @@ us
 <p>
 <em>
 Number of academic institutions = 
-61
+62
 </em>
 </p>
 <table class="table" style="width: auto !important; ">
@@ -458,10 +458,18 @@ n
 </tr>
 <tr>
 <td style="text-align:left;">
+<a href="http://ucmerced.edu" style="     ">ucmerced.edu</a>
+</td>
+<td style="text-align:right;">
+15
+</td>
+</tr>
+<tr>
+<td style="text-align:left;">
 <a href="http://ucdavis.edu" style="     ">ucdavis.edu</a>
 </td>
 <td style="text-align:right;">
-13
+14
 </td>
 </tr>
 <tr>
@@ -477,7 +485,7 @@ n
 <a href="http://berkeley.edu" style="     ">berkeley.edu</a>
 </td>
 <td style="text-align:right;">
-8
+9
 </td>
 </tr>
 <tr>
@@ -486,14 +494,6 @@ n
 </td>
 <td style="text-align:right;">
 6
-</td>
-</tr>
-<tr>
-<td style="text-align:left;">
-<a href="http://ucmerced.edu" style="     ">ucmerced.edu</a>
-</td>
-<td style="text-align:right;">
-5
 </td>
 </tr>
 <tr>
@@ -590,6 +590,14 @@ n
 </td>
 <td style="text-align:right;">
 2
+</td>
+</tr>
+<tr>
+<td style="text-align:left;">
+<a href="http://arc.losrios.edu" style="     ">arc.losrios.edu</a>
+</td>
+<td style="text-align:right;">
+1
 </td>
 </tr>
 <tr>
@@ -1340,6 +1348,14 @@ Roof Rx Inc
 <tr>
 <td style="text-align:left;">
 SFEI
+</td>
+<td style="text-align:right;">
+1
+</td>
+</tr>
+<tr>
+<td style="text-align:left;">
+The Nature Conservancy
 </td>
 <td style="text-align:right;">
 1
